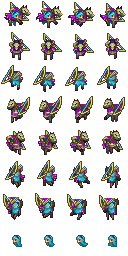
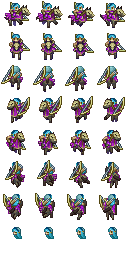
Fixed vertical offset error in movement sprite cropping

diff --git a/splitter.py b/splitter.py
@@ -63,7 +63,7 @@ CROP = {
             
             SMALL: {
                 SIZE : (256,128),
-                'start': (2,406),
+                'start': (2,422),
                 'sub'  : (16,16),
                 },
             
@@ -269,7 +269,7 @@ def process(fn, name, type, size, alpha, outdir):
                         start = x*16,y*16
                         size  = 16,16
                         sub   = crop(move[k], start, size)
-                        dest  = x*32-24, y*32-24
+                        dest  = x*32-24, y*32
                         paste(sub, newMove, dest)
                 move[k] = newMove
 
